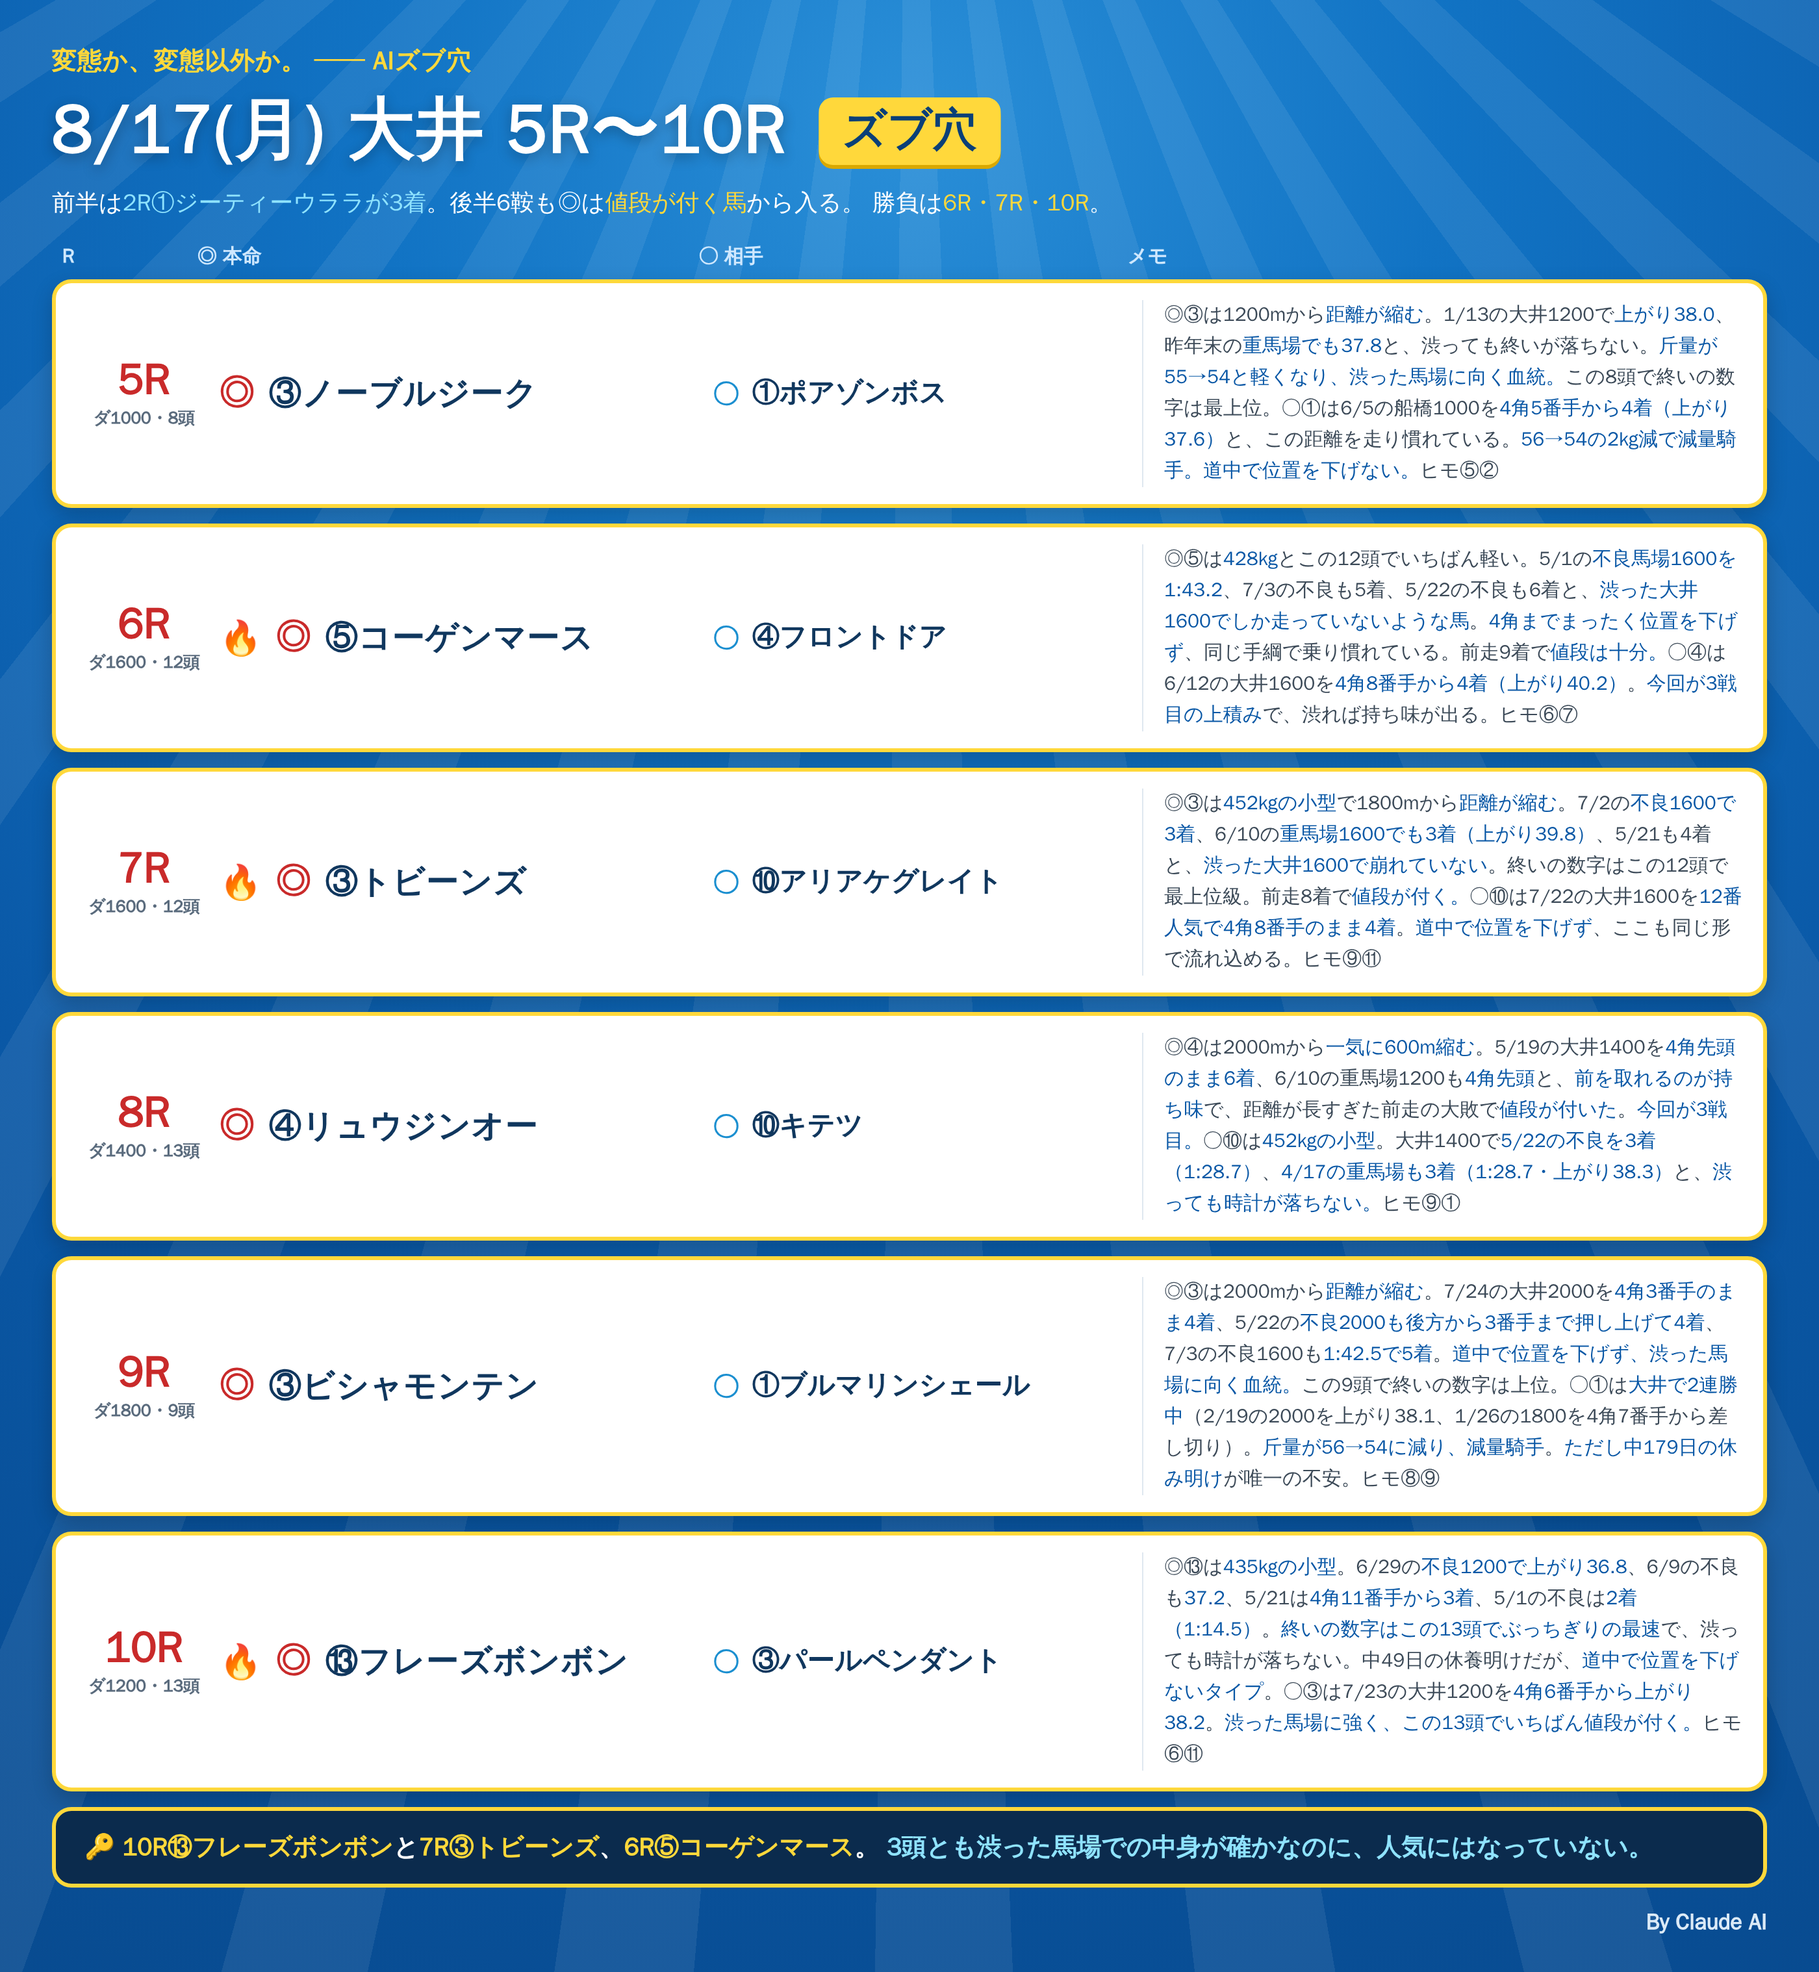
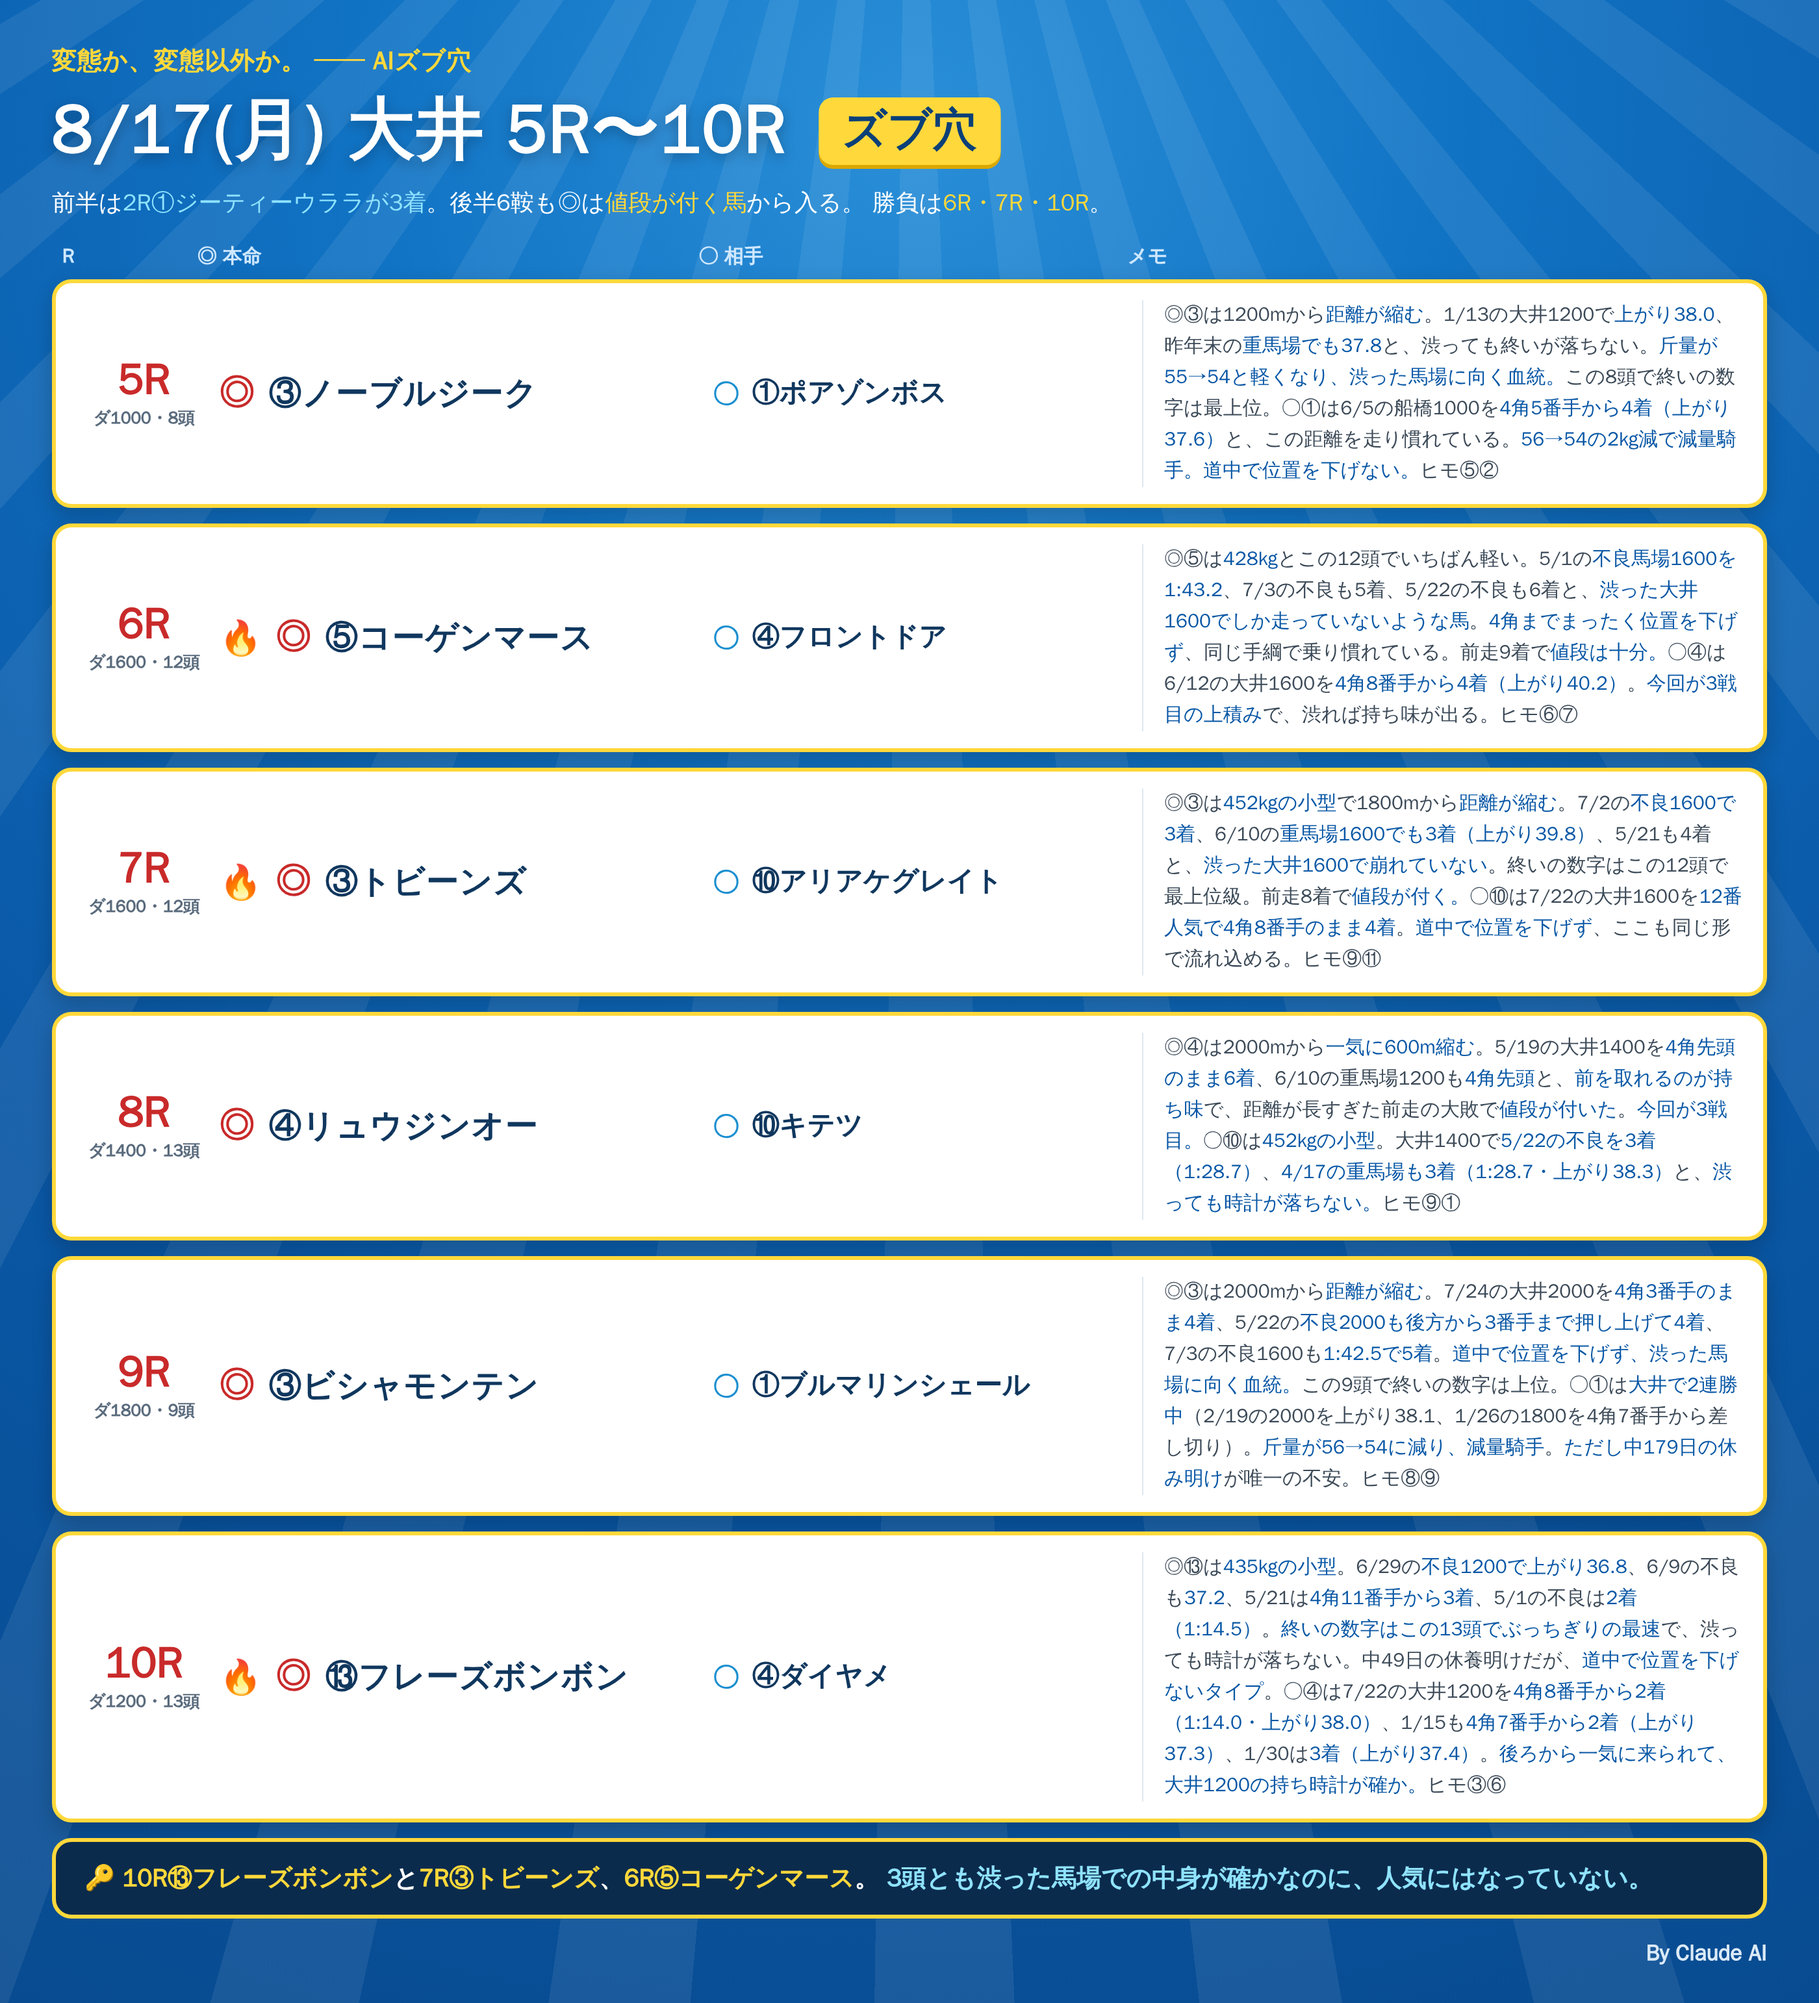
notes: 8/17 大井 10R ○を④ダイヤメに変更
Claude-Session: https://claude.ai/code/session_01RoHscZkr96FNaxQWvUqgEw

diff --git a/notes/live/2026-08-17/oi_5_10.html b/notes/live/2026-08-17/oi_5_10.html
@@ -88,8 +88,8 @@
   <div class="row">
     <div class="rN"><div class="n">10R</div><div class="d">ダ1200・13頭</div></div>
     <div class="hm"><span class="fire">🔥</span><span class="mk">◎</span><span class="nm">⑬フレーズボンボン</span></div>
-    <div class="at"><span class="mk2">○</span><span class="nm2">③パールペンダント</span></div>
-    <div class="memo">◎⑬は<b>435kgの小型</b>。6/29の<b>不良1200で上がり36.8</b>、6/9の不良も<b>37.2</b>、5/21は<b>4角11番手から3着</b>、5/1の不良は<b>2着（1:14.5）</b>。<b>終いの数字はこの13頭でぶっちぎりの最速</b>で、渋っても時計が落ちない。中49日の休養明けだが、<b>道中で位置を下げないタイプ</b>。○③は7/23の大井1200を<b>4角6番手から上がり38.2</b>。<b>渋った馬場に強く、この13頭でいちばん値段が付く。</b>ヒモ⑥⑪</div>
+    <div class="at"><span class="mk2">○</span><span class="nm2">④ダイヤメ</span></div>
+    <div class="memo">◎⑬は<b>435kgの小型</b>。6/29の<b>不良1200で上がり36.8</b>、6/9の不良も<b>37.2</b>、5/21は<b>4角11番手から3着</b>、5/1の不良は<b>2着（1:14.5）</b>。<b>終いの数字はこの13頭でぶっちぎりの最速</b>で、渋っても時計が落ちない。中49日の休養明けだが、<b>道中で位置を下げないタイプ</b>。○④は7/22の大井1200を<b>4角8番手から2着（1:14.0・上がり38.0）</b>、1/15も<b>4角7番手から2着（上がり37.3）</b>、1/30は<b>3着（上がり37.4）</b>。<b>後ろから一気に来られて、大井1200の持ち時計が確か。</b>ヒモ③⑥</div>
   </div>
 
   <div class="foot">🔑 <span class="y">10R⑬フレーズボンボン</span>と<span class="y">7R③トビーンズ</span>、<span class="y">6R⑤コーゲンマース</span>。
